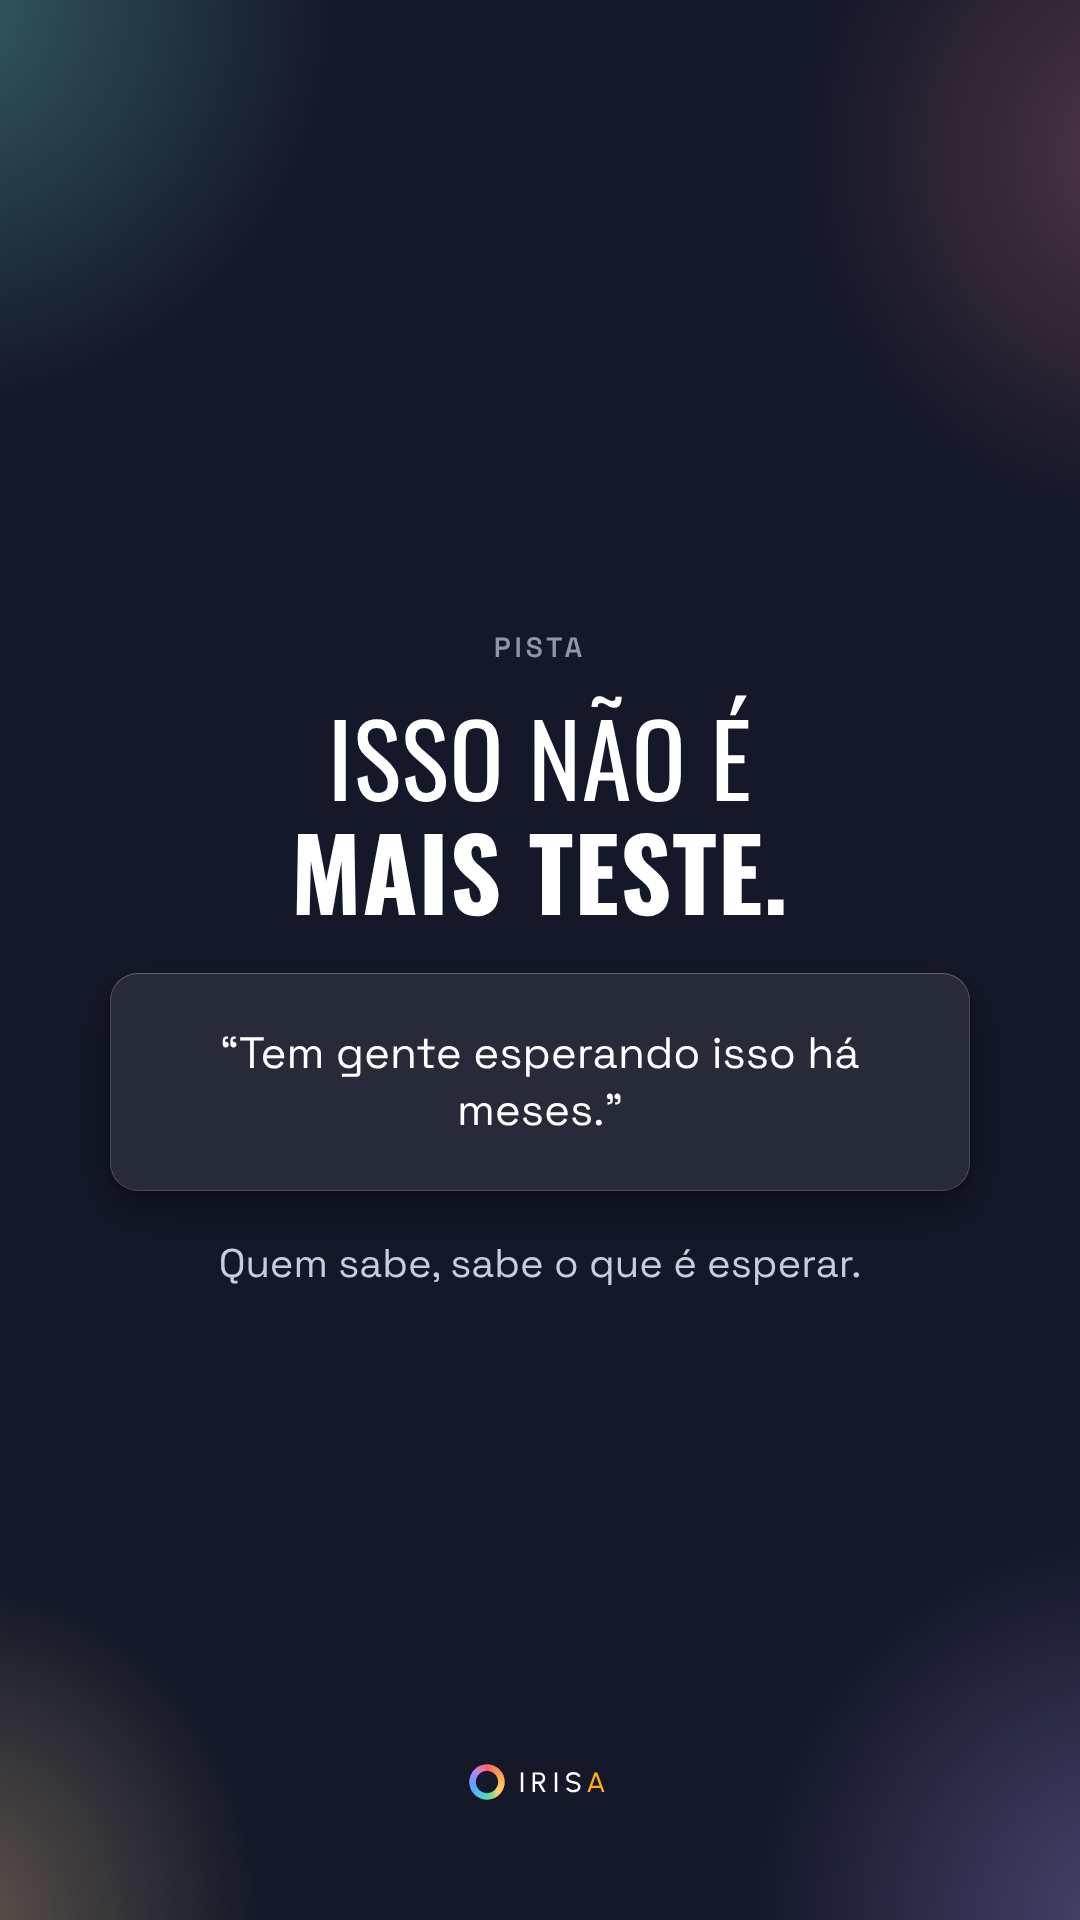
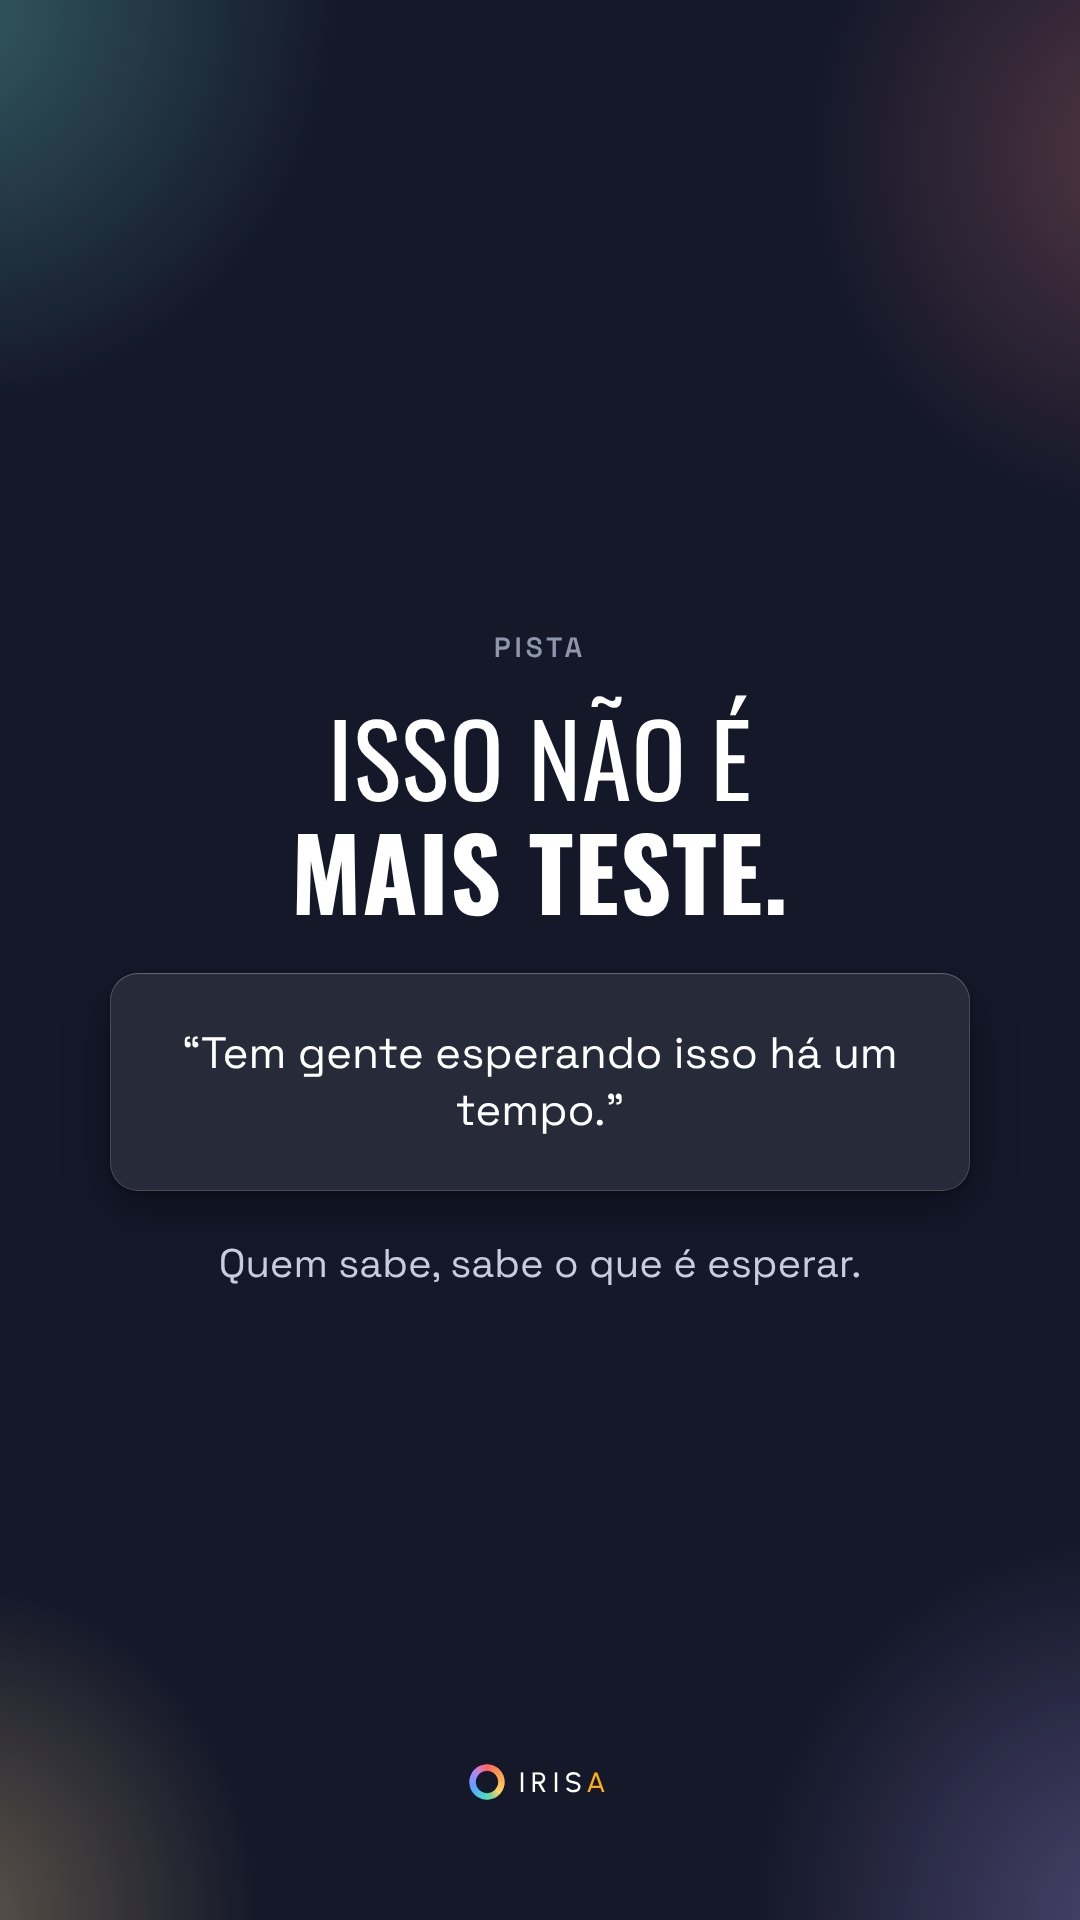
Story mistério: troca "meses" por "um tempo"
Claude-Session: https://claude.ai/code/session_01GDsq1tBr8qs38FsR3pBC13

Changed region(s): [[0.4278, 0.5312, 0.825, 0.5938], [0.1833, 0.5312, 0.3972, 0.5625]]

diff --git a/docs/story-misterio-android.html b/docs/story-misterio-android.html
@@ -104,7 +104,7 @@ body{font-family:var(--body);color:var(--ink);display:flex;flex-direction:column
   <div class="eyebrow c">pista</div>
   <p class="big c" style="font-size:100px;margin:34px 0 46px"><span class="lt">Isso não é</span><br>mais teste.</p>
   <div class="qcard c" style="width:860px">
-    <p style="font-size:44px">“Tem gente esperando isso há meses.”</p>
+    <p style="font-size:44px">“Tem gente esperando isso há um tempo.”</p>
   </div>
   <p class="body c" style="margin-top:46px;max-width:760px">Quem sabe, sabe o que é esperar.</p>
   <div class="brand"><svg class="mark" viewBox="0 0 100 100"><use href="#radarmin"></use></svg><span>Iris<b>a</b></span></div>
